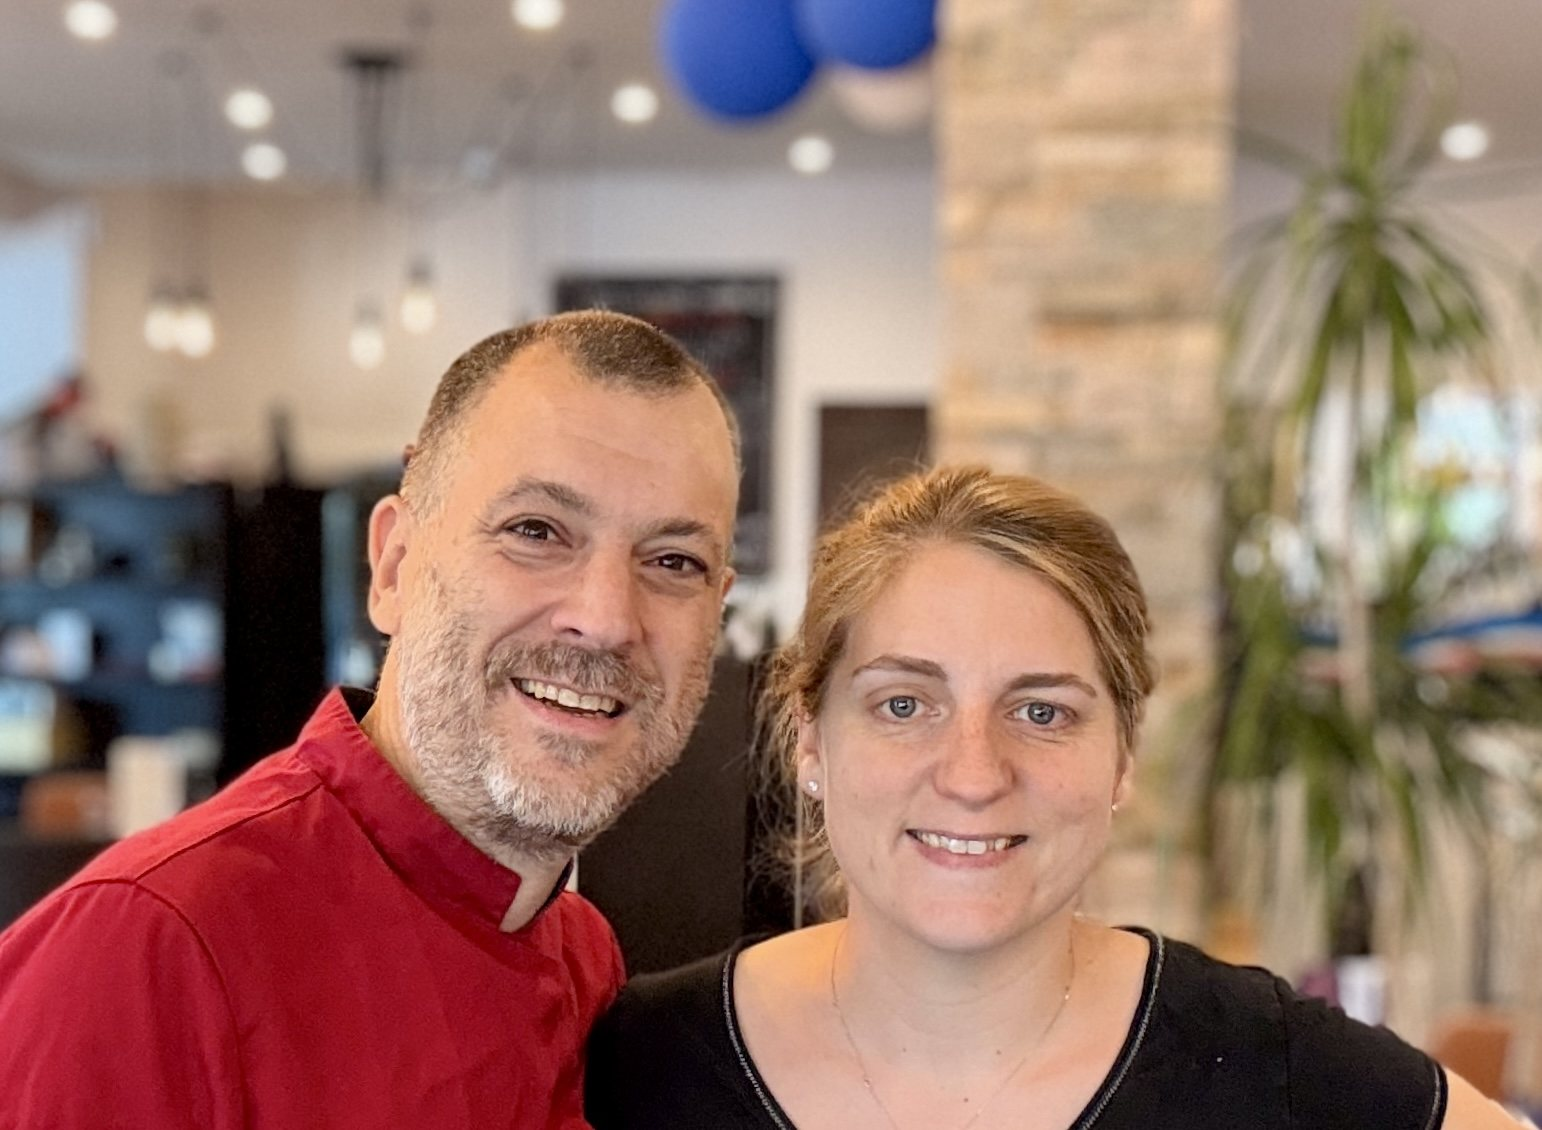
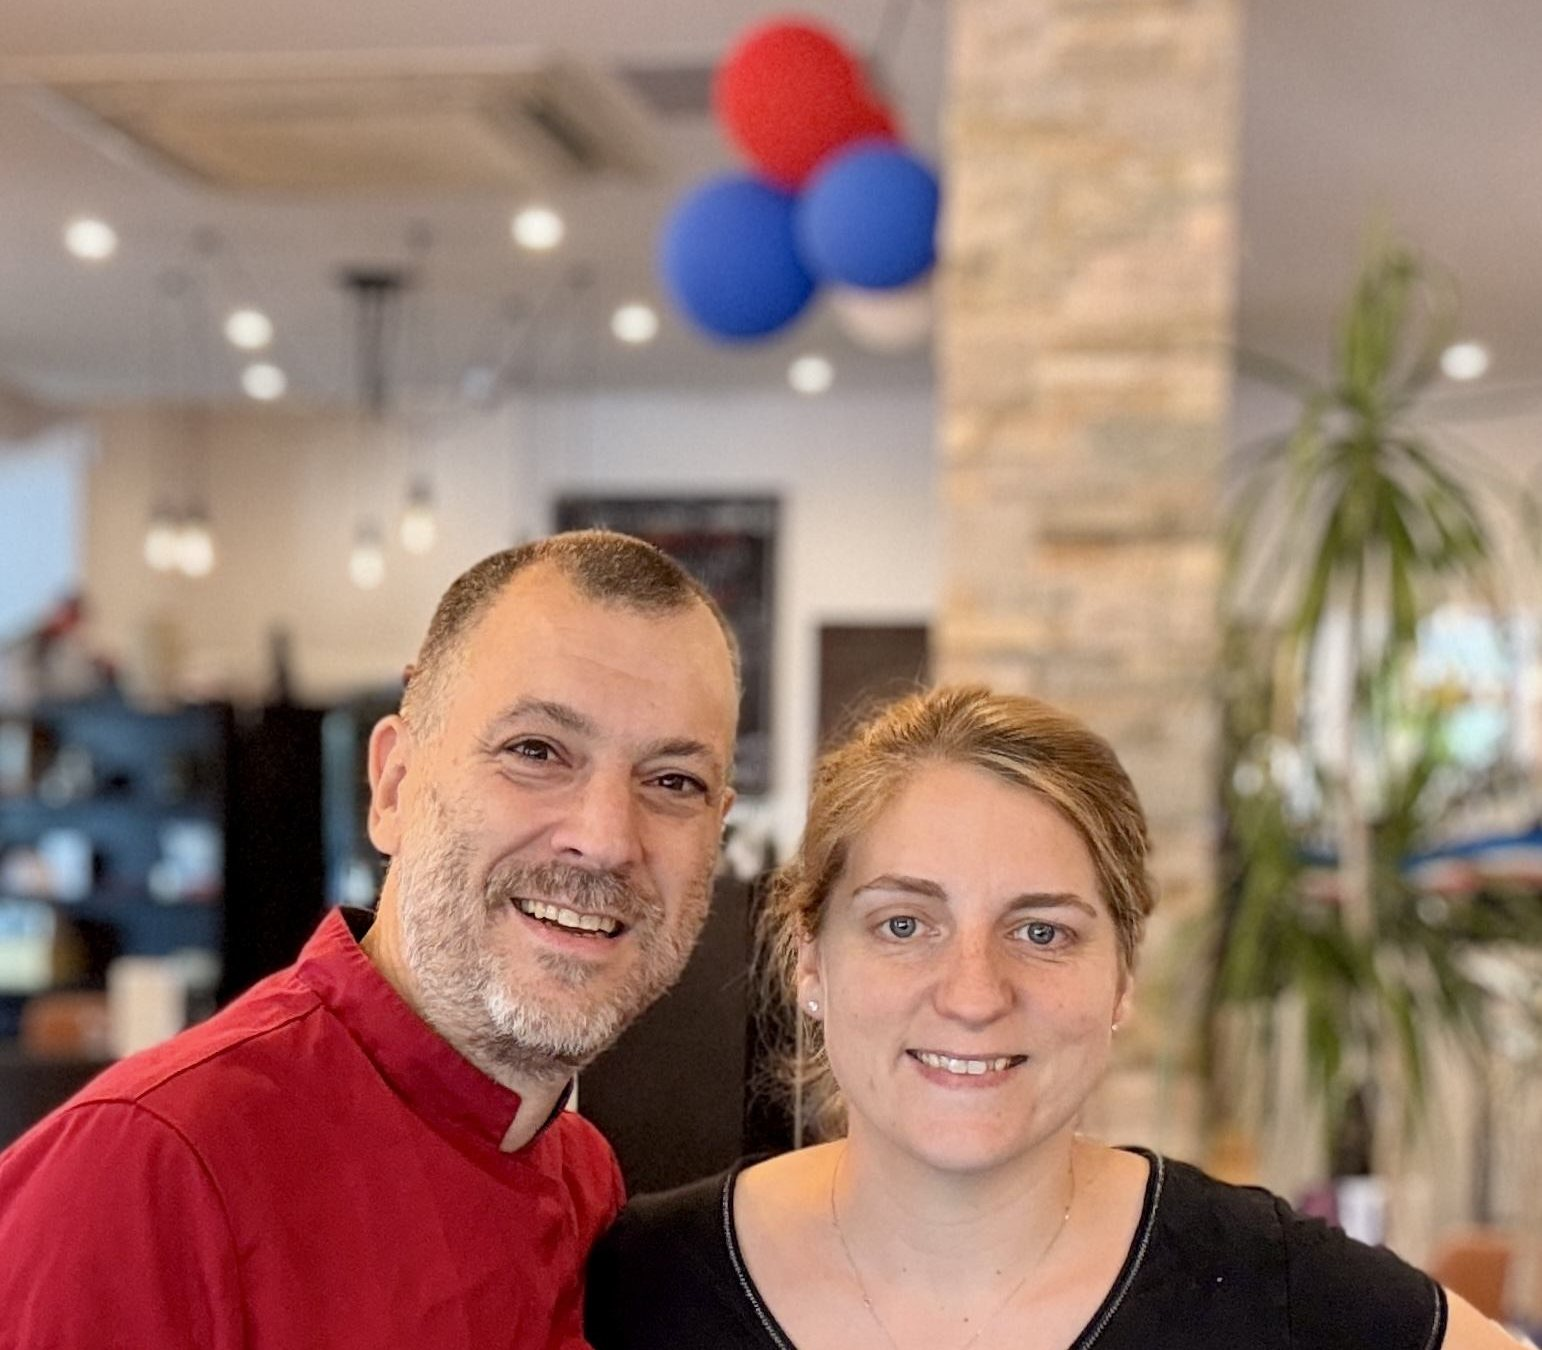
index : recadrage remonte, plus d'espace sous les visages avant la photo medaillon

diff --git a/index.html b/index.html
@@ -807,7 +807,7 @@
       </div>
     </div>
     <div class="histoire-media reveal">
-      <div class="img-main"><img src="assets/img/gwen-et-stephane.jpg" alt="Gwen et Stéphane, vos hôtes à La Mezza Luna" style="object-position:center 30%;" /></div>
+      <div class="img-main"><img src="assets/img/gwen-et-stephane.jpg" alt="Gwen et Stéphane, vos hôtes à La Mezza Luna" style="object-position:center 20%;" /></div>
       <div class="img-small"><img src="assets/img/equipe1.jpg" alt="L'équipe de La Mezza Luna" style="object-position:left center;" /></div>
     </div>
   </div>
